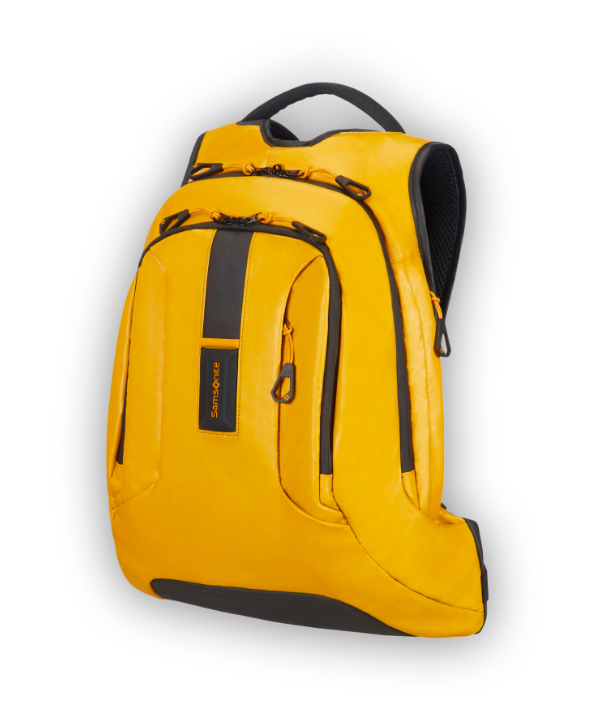
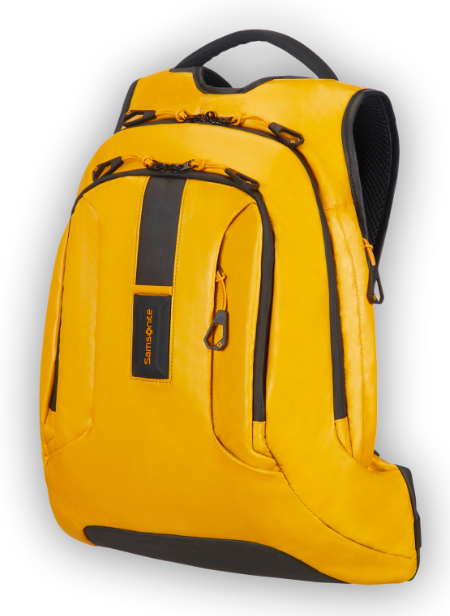
add product slide

diff --git a/index.html b/index.html
@@ -125,10 +125,37 @@
                         <div class="swiper">
                             <!-- Additional required wrapper -->
                             <div class="swiper-wrapper">
-                                <!-- Slides -->
-                                <div class="swiper-slide">Slide 1</div>
-                                <div class="swiper-slide">Slide 2</div>
-                                <div class="swiper-slide">Slide 3</div>
+
+                                <!-- Slide1 -->
+                                <div class="swiper-slide">
+                                    <div class="product__content">
+                                        <div class="product__bgtext" data-swiper-parallax="200" data-swiper-parallax-duration="1000">Backpack Outdoor Style</div>
+                                        <div class="product__image" data-swiper-parallax="-200" data-swiper-parallax-duration="1000">
+                                            <img src="assets/images/backpack@2x.png" alt="Photo of yellow backpack">
+                                        </div>
+                                    </div>
+                                </div>
+
+                                <!-- slide 2 -->
+                                <div class="swiper-slide">
+                                    <div class="product__content">
+                                        <div class="product__bgtext" data-swiper-parallax="200" data-swiper-parallax-duration="1000">Backpack Outdoor Style</div>
+                                        <div class="product__image" data-swiper-parallax="-200" data-swiper-parallax-duration="1000">
+                                            <img src="assets/images/backpack@2x.png" alt="Photo of yellow backpack">
+                                        </div>
+                                    </div>
+                                </div>
+                                
+                                <!-- slide 3 -->
+                                <div class="swiper-slide">
+                                    <div class="product__content">
+                                        <div class="product__bgtext" data-swiper-parallax="200" data-swiper-parallax-duration="1000">Backpack Outdoor Style</div>
+                                        <div class="product__image" data-swiper-parallax="-200" data-swiper-parallax-duration="1000">
+                                            <img src="assets/images/backpack@2x.png" alt="Photo of yellow backpack">
+                                        </div>
+                                    </div>
+                                </div>
+                                
                             </div>
                             <!-- If we need pagination -->
                             <div class="swiper-pagination"></div>

diff --git a/SRC/scss/pages/product/_product.scss b/SRC/scss/pages/product/_product.scss
@@ -2,14 +2,42 @@
     height: 100vh;
     display: grid;
     width: 100%;
+    position: relative;
 
     &__inner {
         display: grid;
-        background-color: lightblue;
         margin-top: var(--menu-height);
+        margin-bottom: var(--gap-xl);
+    }
+
+    &__content {
+        display: flex;
+        justify-content: center;
+        align-items: center;
+    }
+
+    &__bgtext {
+        position: absolute;
+        font-size: 7.5vw;
+        font-weight: 700;
+        text-transform: uppercase;
+        color: var(--color-grey-100);
+        text-align: center;
+    }
+
+    &__image {
+        position: relative;
+
+        img {
+            max-height: 80vh;
+        }
     }
 
     .swiper {
         width: 100%;
+
+        &-slide {
+            overflow: hidden;
+        }
     }
 }

diff --git a/style.css b/style.css
@@ -344,14 +344,37 @@ a:hover {
   height: 100vh;
   display: grid;
   width: 100%;
+  position: relative;
 }
 .product__inner {
   display: grid;
-  background-color: lightblue;
   margin-top: var(--menu-height);
+  margin-bottom: var(--gap-xl);
+}
+.product__content {
+  display: flex;
+  justify-content: center;
+  align-items: center;
+}
+.product__bgtext {
+  position: absolute;
+  font-size: 7.5vw;
+  font-weight: 700;
+  text-transform: uppercase;
+  color: var(--color-grey-100);
+  text-align: center;
+}
+.product__image {
+  position: relative;
+}
+.product__image img {
+  max-height: 80vh;
 }
 .product .swiper {
   width: 100%;
+}
+.product .swiper-slide {
+  overflow: hidden;
 }
 
 /*# sourceMappingURL=style.css.map */

diff --git a/js/main.js b/js/main.js
@@ -1,6 +1,7 @@
 const swiper = new Swiper('.swiper', {
     // Optional parameters
     loop: true,
+    parallax: true,
   
     // If we need pagination
     pagination: {
